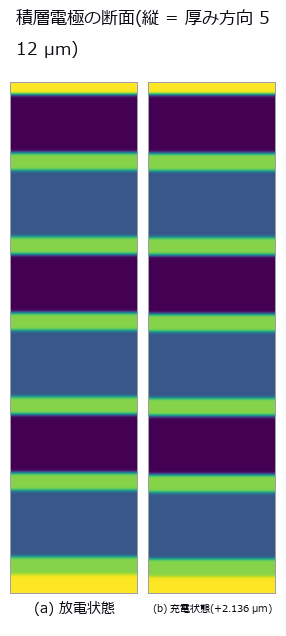
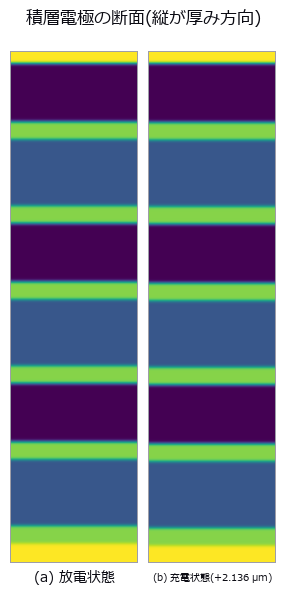
auto: poc_pallet_load_utilization.py 編集前 (2026-09-08 06:18)

diff --git a/examples/poc_battery_electrode_breathing.py b/examples/poc_battery_electrode_breathing.py
@@ -292,7 +292,7 @@ def section_zero_and_proposal() -> dict:
     prof0, prof1 = _column_profile(img0), _column_profile(img1)
     figs.save_grid("scene", [img0, img1],
                    ["放電状態", "充電状態(+%.3f µm)" % ((b1[-1] - b1[0]) - (b0[-1] - b0[0]))],
-                   title="積層電極の断面(縦 = 厚み方向 %d µm)" % H, ncols=2,
+                   title="積層電極の断面(縦が厚み方向)", ncols=2,
                    caption="負極(暗)・セパレータ(明)・正極(中)が 3 単位。"
                            "2 枚の違いは µm 級で、並べても見えない —— そこが主題。")
     rows = np.arange(H)
